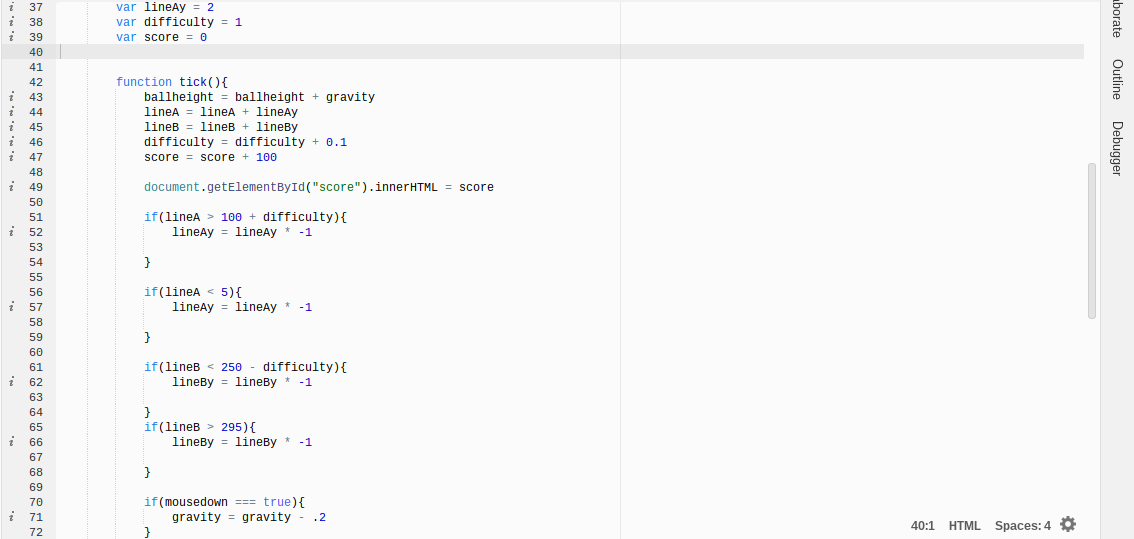
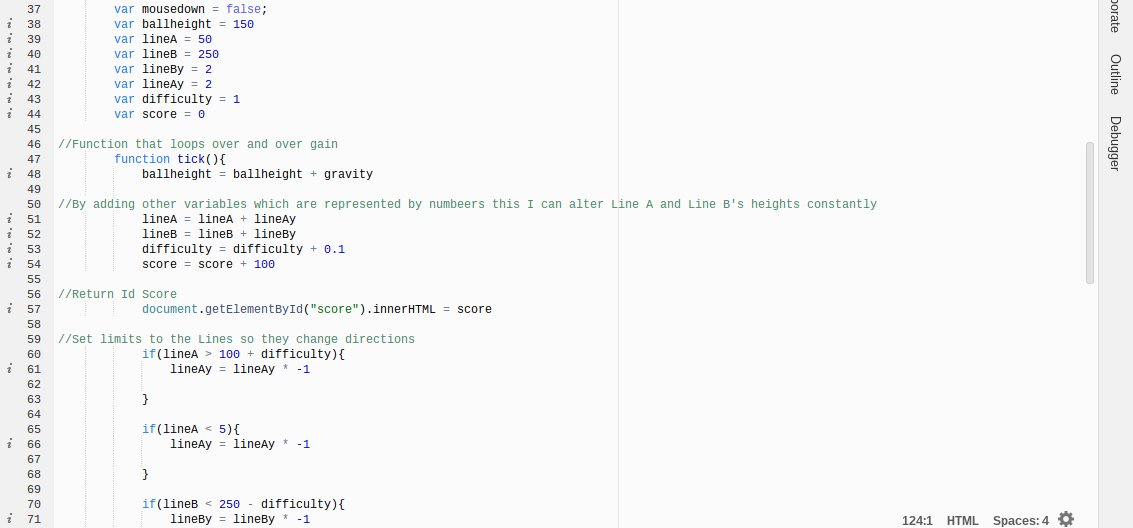
message about changes

diff --git a/FlappyBall.html b/FlappyBall.html
@@ -2,6 +2,7 @@
 <html>
     <head>
         <style>
+  /* override id tag sets in css for this page only*/
            #rules{
                color:green;
                display: inline-block;
@@ -9,27 +10,34 @@
                font-size: 19px;
            } 
            #yes{
-               color:Black;
+               color:black;
                font-size:18px;
            }
 
         </style>
     </head>
     
-    
-    <center><p id="rules">Click in the center and keep the ball afloat, don't let the lines hit the ball!</p></center><body>
+<!-- One and Only Rule at top-->
+    <center><p id="rules">Click or hold your mouse down in the center of the canvas and keep the ball afloat, don't let the lines hit the ball!</p></center><body>
         
 <center>
+<!-- This is the Canvas without content for now when the mouse is up or down it's telling it what to do when canvas is clicked-->
         <canvas id="canvas" width="100px" height="300px" onmouseup="up()" onmousedown='down()'></canvas>
+
+<!-- Div to start the Score-->
         <div id = "score">0</div>
-        
+
+<!-- A Reload page button-->
         <input id="yes" type="button" value="Restart" onClick="window.location.reload()">
         <script>
     
-    
+//Variables for the game var canvas stores an HTML element
         var canvas = document.getElementById("canvas")
+//CTX is like is used to manipulate the canvas
         var ctx = canvas.getContext("2d")
+//Changes to true or false when clikced on canvas
         var mousedown = false;
+//Y value of the ball is when we choose to draw the ball on ball height
         var ballheight = 150
         var lineA = 50
         var lineB = 250
@@ -38,16 +46,20 @@
         var difficulty = 1
         var score = 0
 
-        
+//Function that loops over and over gain
         function tick(){
             ballheight = ballheight + gravity
+            
+//By adding other variables which are represented by numbeers this I can alter Line A and Line B's heights constantly
             lineA = lineA + lineAy
             lineB = lineB + lineBy
             difficulty = difficulty + 0.1
             score = score + 100
-            
+
+//Return Id Score
             document.getElementById("score").innerHTML = score
-            
+
+//Set limits to the Lines so they change directions
             if(lineA > 100 + difficulty){
                 lineAy = lineAy * -1
                 
@@ -67,33 +79,40 @@
                 
             }  
             
+            
+//If mousedown is true we add to Gravity which makes ball go up Gravity is constantly changing 
             if(mousedown === true){
                 gravity = gravity - .2
             }
             else {
                 gravity = gravity + .2
             }
-            
-    
+
+//Draws Ball at Ball Height
             ctx.beginPath();
             ctx.arc(50,ballheight,20,0,2*Math.PI);
             ctx.clearRect(0,0,1000,300)
             ctx.stroke();
+            
+//Draws Line at Line height, this starts at 0,0 and it's hiehgt ia Line A and width is 100, so it stretches
             ctx.fillRect(0,lineA,100,2)
             ctx.fillRect(0,lineB,100,2)
+            
+//How to End a Game
+//Calling a function, called Kill function which doesn't exist, so the game crashes and needs to be reloaded
             if (ballheight<lineA){
                 kill()
             }
             if (ballheight>lineB){
                 kill()
             }
-            
+//this tick calls itself by running itself over and over again, Javascrtipy will tke Window. requestion Animation Frame(tick) and it slows down after it's called
             window.requestAnimationFrame(tick)
         }
         var gravity = 0
         tick()
     
-        
+//When I click down ball rises,
         function down(){
             mousedown = true
         }
@@ -101,22 +120,6 @@
         function up(){
             mousedown = false
         }
-
-function accelerate(n) {
-    myGamePiece.gravity = n;
-}
-        
-var myGamePiece;
-var myObstacle;
-
-
-function updateGameArea() {
-    myGameArea.clear();
-    myObstacle.update();
-    myGamePiece.newPos();
-    myGamePiece.update();
-}
-
         </script>
     </body>
 </html>

diff --git a/BigProject.html b/BigProject.html
@@ -21,7 +21,7 @@
 <center>
 
 <div class="am-headings"><h1> How does this game work??? </h1>
-<h2>"(Add)"</h2></div>
+<h2>"This is a simple Gravity Ball game made with Html, Css, and JavaScript. In this game one is able to control a..."</h2></div>
         
 <center><br>
 <img class="am-gif" src="images/FirstFlap.png">
@@ -58,7 +58,7 @@
 <div class= "am-headings">(Add)</div>
 
 <br>
-<div class="am-description"><h1 class="am-heading2">If Statements:</h1 class="am-heading2">
+<div class="am-description"><h1 class="am-heading2">Conditions:</h1 class="am-heading2">
 <center>
 <img src="images/FlappyStart5.png" alt="some_text" style="width:width;height:height;">
 </center>
@@ -94,7 +94,7 @@
 </body>
 </html>
 
-<center><br><p class="am-closing">All of code Below:
+<center><br><p class="am-closing">All of code with Comments Below:
 </p>
 </br></center>
 <center>

diff --git a/styles/Jishen.css b/styles/Jishen.css
@@ -62,6 +62,13 @@ h1 {
     border-radius: 20%;
     width: 85%;
 }
+
+img {
+    margin: 0px;
+    padding: 0px;
+    border: 0px solid white;
+}
+
 .am-headings {
     color:#D77601;
     font-style: oblique;
@@ -69,6 +76,9 @@ h1 {
     width: 65%;
     padding: 45px;
     text-align: center;
+    margin-top: 0px;
+    margin: 0px;
+    width: 1040px;
     font-size: 18px;
     font-family: sans-serif;
 }
@@ -87,7 +97,7 @@ h1 {
 }
 
 .am-description {
-    font-size: 23px;
+    font-size: 23px;;
     color: #0E6A22;
 }
 
